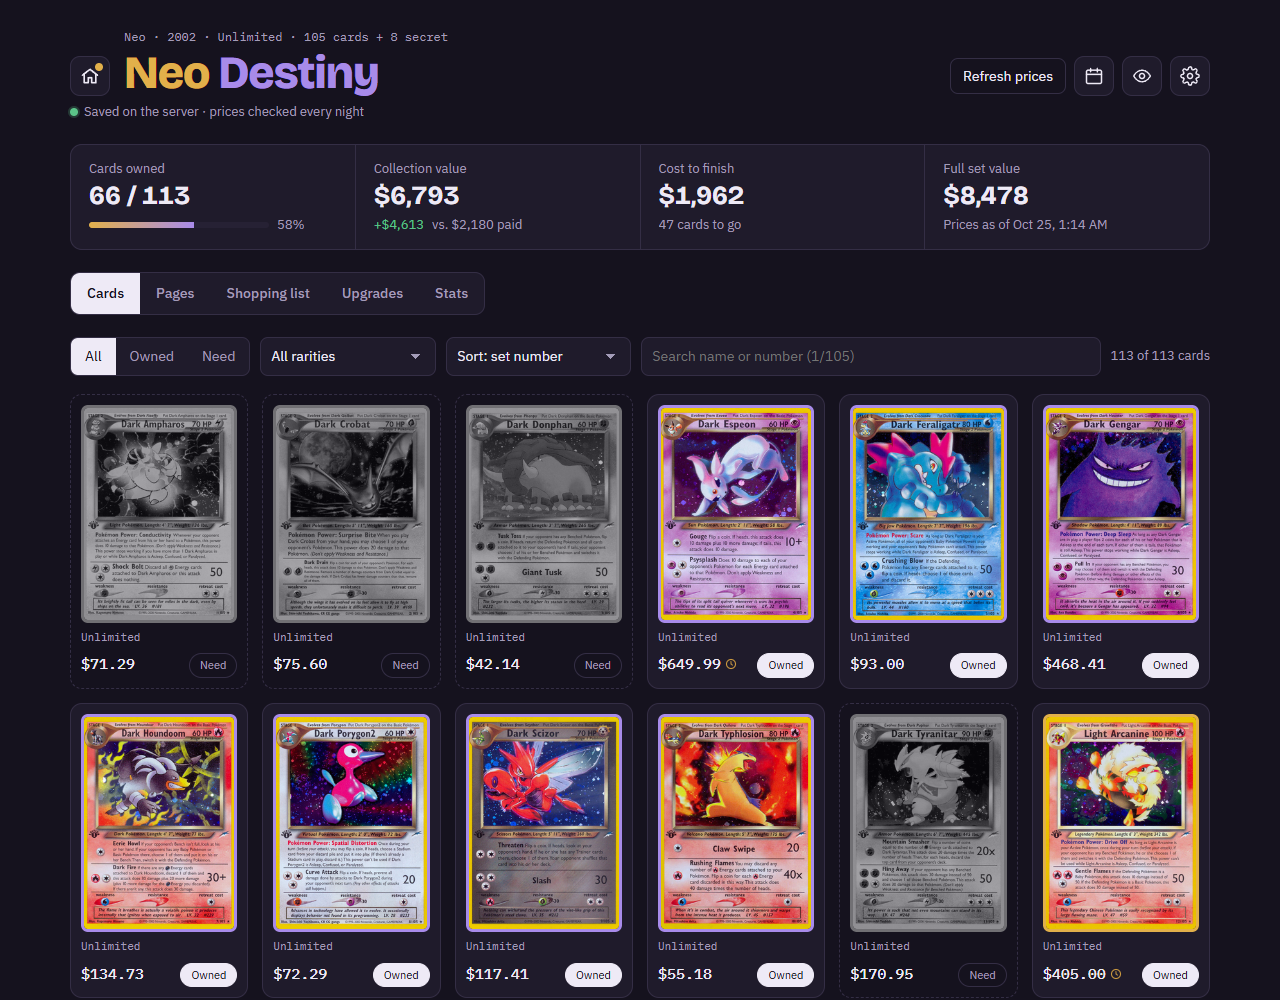
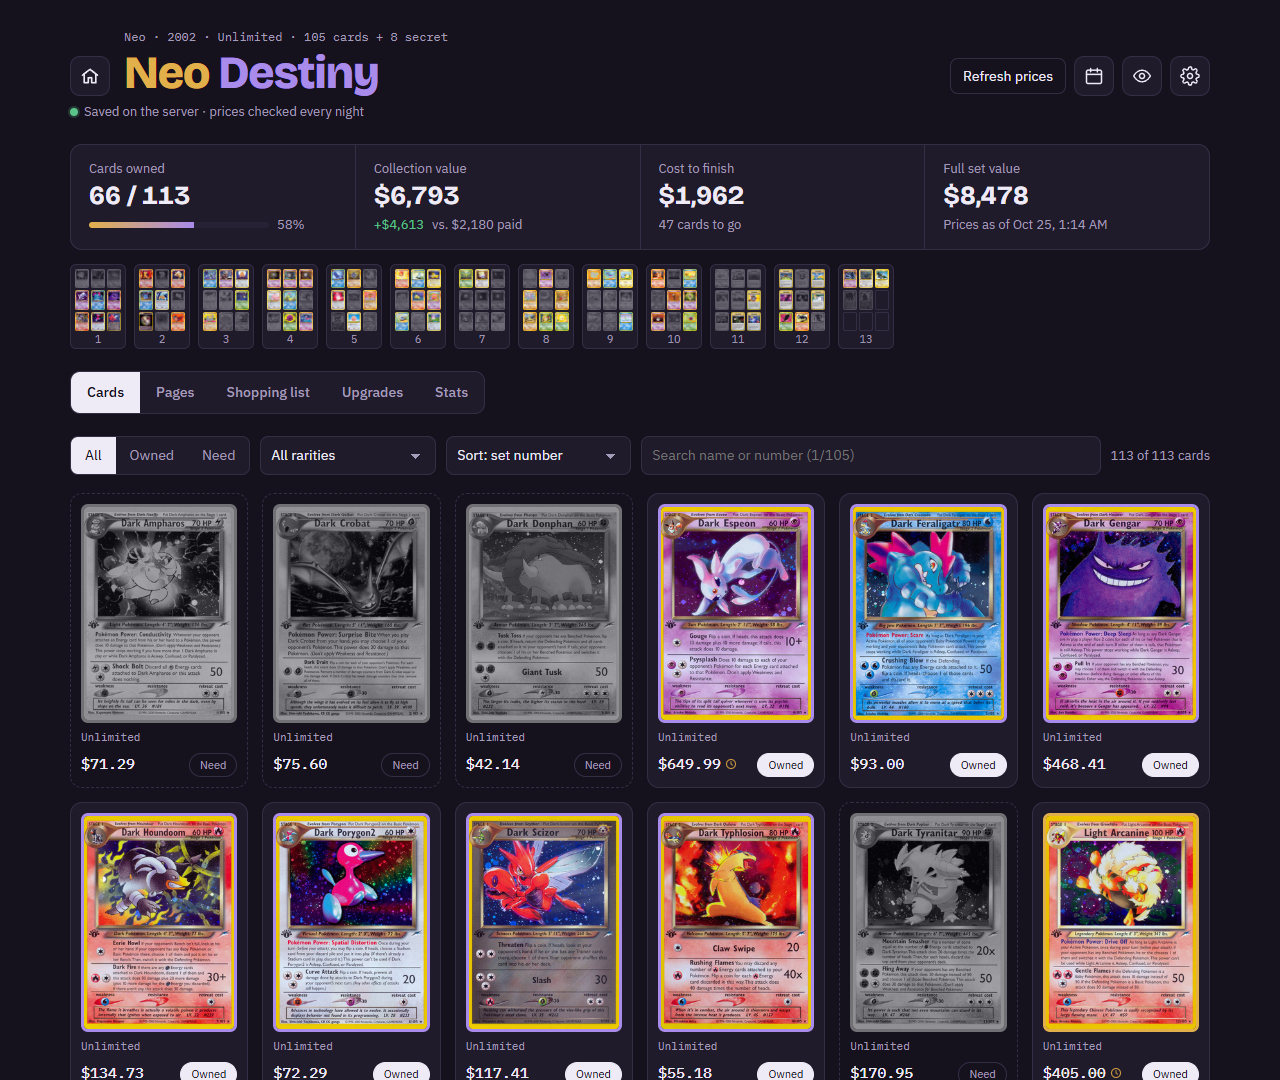
README: binder and privacy screenshots show the set map

diff --git a/README.md b/README.md
@@ -20,7 +20,7 @@ Also: custom cards for anything the card database is missing, upcoming card show
 
 ![The home page with a shelf of binders](screenshots/home.png)
 
-**The binder.** Owned cards in color, cards you still need in greyscale, with totals at the top and each card's price trend.
+**The binder.** Owned cards in color, cards you still need in greyscale, with totals at the top and each card's price trend. Under the totals, a map of every binder page shows where the gaps are; tap a page to open it.
 
 ![The binder's main page](screenshots/binder.png)
 
